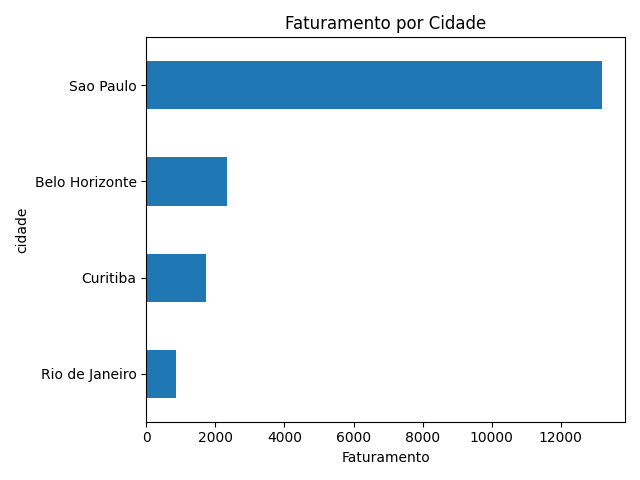
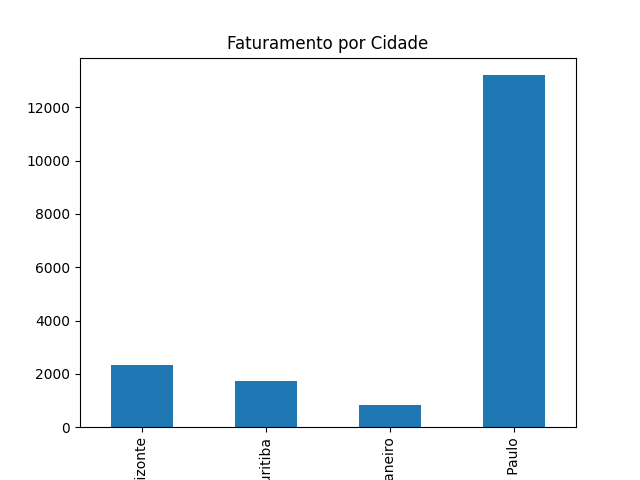
feat: pipeline completo com orquestração e relatórios

diff --git a/src/visualize.py b/src/visualize.py
@@ -1,24 +1,16 @@
 import matplotlib.pyplot as plt
 
-def create_charts(df):
-    # faturamento por produto
-    produto = df.groupby('produto')['faturamento'].sum()
-
-    plt.figure()
-    produto.sort_values().plot(kind='barh')
+def generate_charts(df):
+    # Faturamento por produto
+    df.groupby('produto')['faturamento'].sum().plot(kind='bar')
     plt.title('Faturamento por Produto')
-    plt.xlabel('Faturamento')
-    plt.tight_layout()
     plt.savefig('output/charts/faturamento_produto.png')
-    plt.close()
+    plt.clf()
 
-    # faturamento por cidade
-    cidade = df.groupby('cidade')['faturamento'].sum()
-
-    plt.figure()
-    cidade.sort_values().plot(kind='barh')
+    # Faturamento por cidade
+    df.groupby('cidade')['faturamento'].sum().plot(kind='bar')
     plt.title('Faturamento por Cidade')
-    plt.xlabel('Faturamento')
-    plt.tight_layout()
     plt.savefig('output/charts/faturamento_cidade.png')
-    plt.close()
+    plt.clf()
+
+    print("Gráficos gerados com sucesso!")

diff --git a/src/load.py b/src/load.py
@@ -1,10 +1,23 @@
 import pandas as pd
+import sqlite3
+import os
 
 def generate_report(df):
     resumo_produto = df.groupby('produto')['faturamento'].sum().reset_index()
     resumo_cidade = df.groupby('cidade')['faturamento'].sum().reset_index()
 
+    os.makedirs('output/reports', exist_ok=True)
+
     with pd.ExcelWriter('output/reports/relatorio.xlsx') as writer:
         df.to_excel(writer, sheet_name='Dados', index=False)
         resumo_produto.to_excel(writer, sheet_name='Produtos', index=False)
         resumo_cidade.to_excel(writer, sheet_name='Cidades', index=False)
+
+def save_to_db(df):
+    os.makedirs('database', exist_ok=True)
+
+    conn = sqlite3.connect('database/sales.db')
+    df.to_sql('sales', conn, if_exists='replace', index=False)
+    conn.close()
+
+    print("Dados salvos no banco com sucesso!")

diff --git a/src/pipeline.py b/src/pipeline.py
@@ -1,0 +1,27 @@
+from src.extract import load_data
+from src.transform import transform_data
+from src.load import save_to_db, generate_report
+from src.visualize import generate_charts
+
+def run_pipeline():
+    print("🚀 Iniciando pipeline...")
+
+    # Extract
+    df = load_data('data/raw')
+
+    # Transform
+    df = transform_data(df)
+
+    # Load
+    save_to_db(df)
+
+    # Report
+    generate_report(df)
+
+    # Visualização
+    generate_charts(df)
+
+    print("✅ Pipeline finalizado com sucesso!")
+
+if __name__ == "__main__":
+    run_pipeline()
